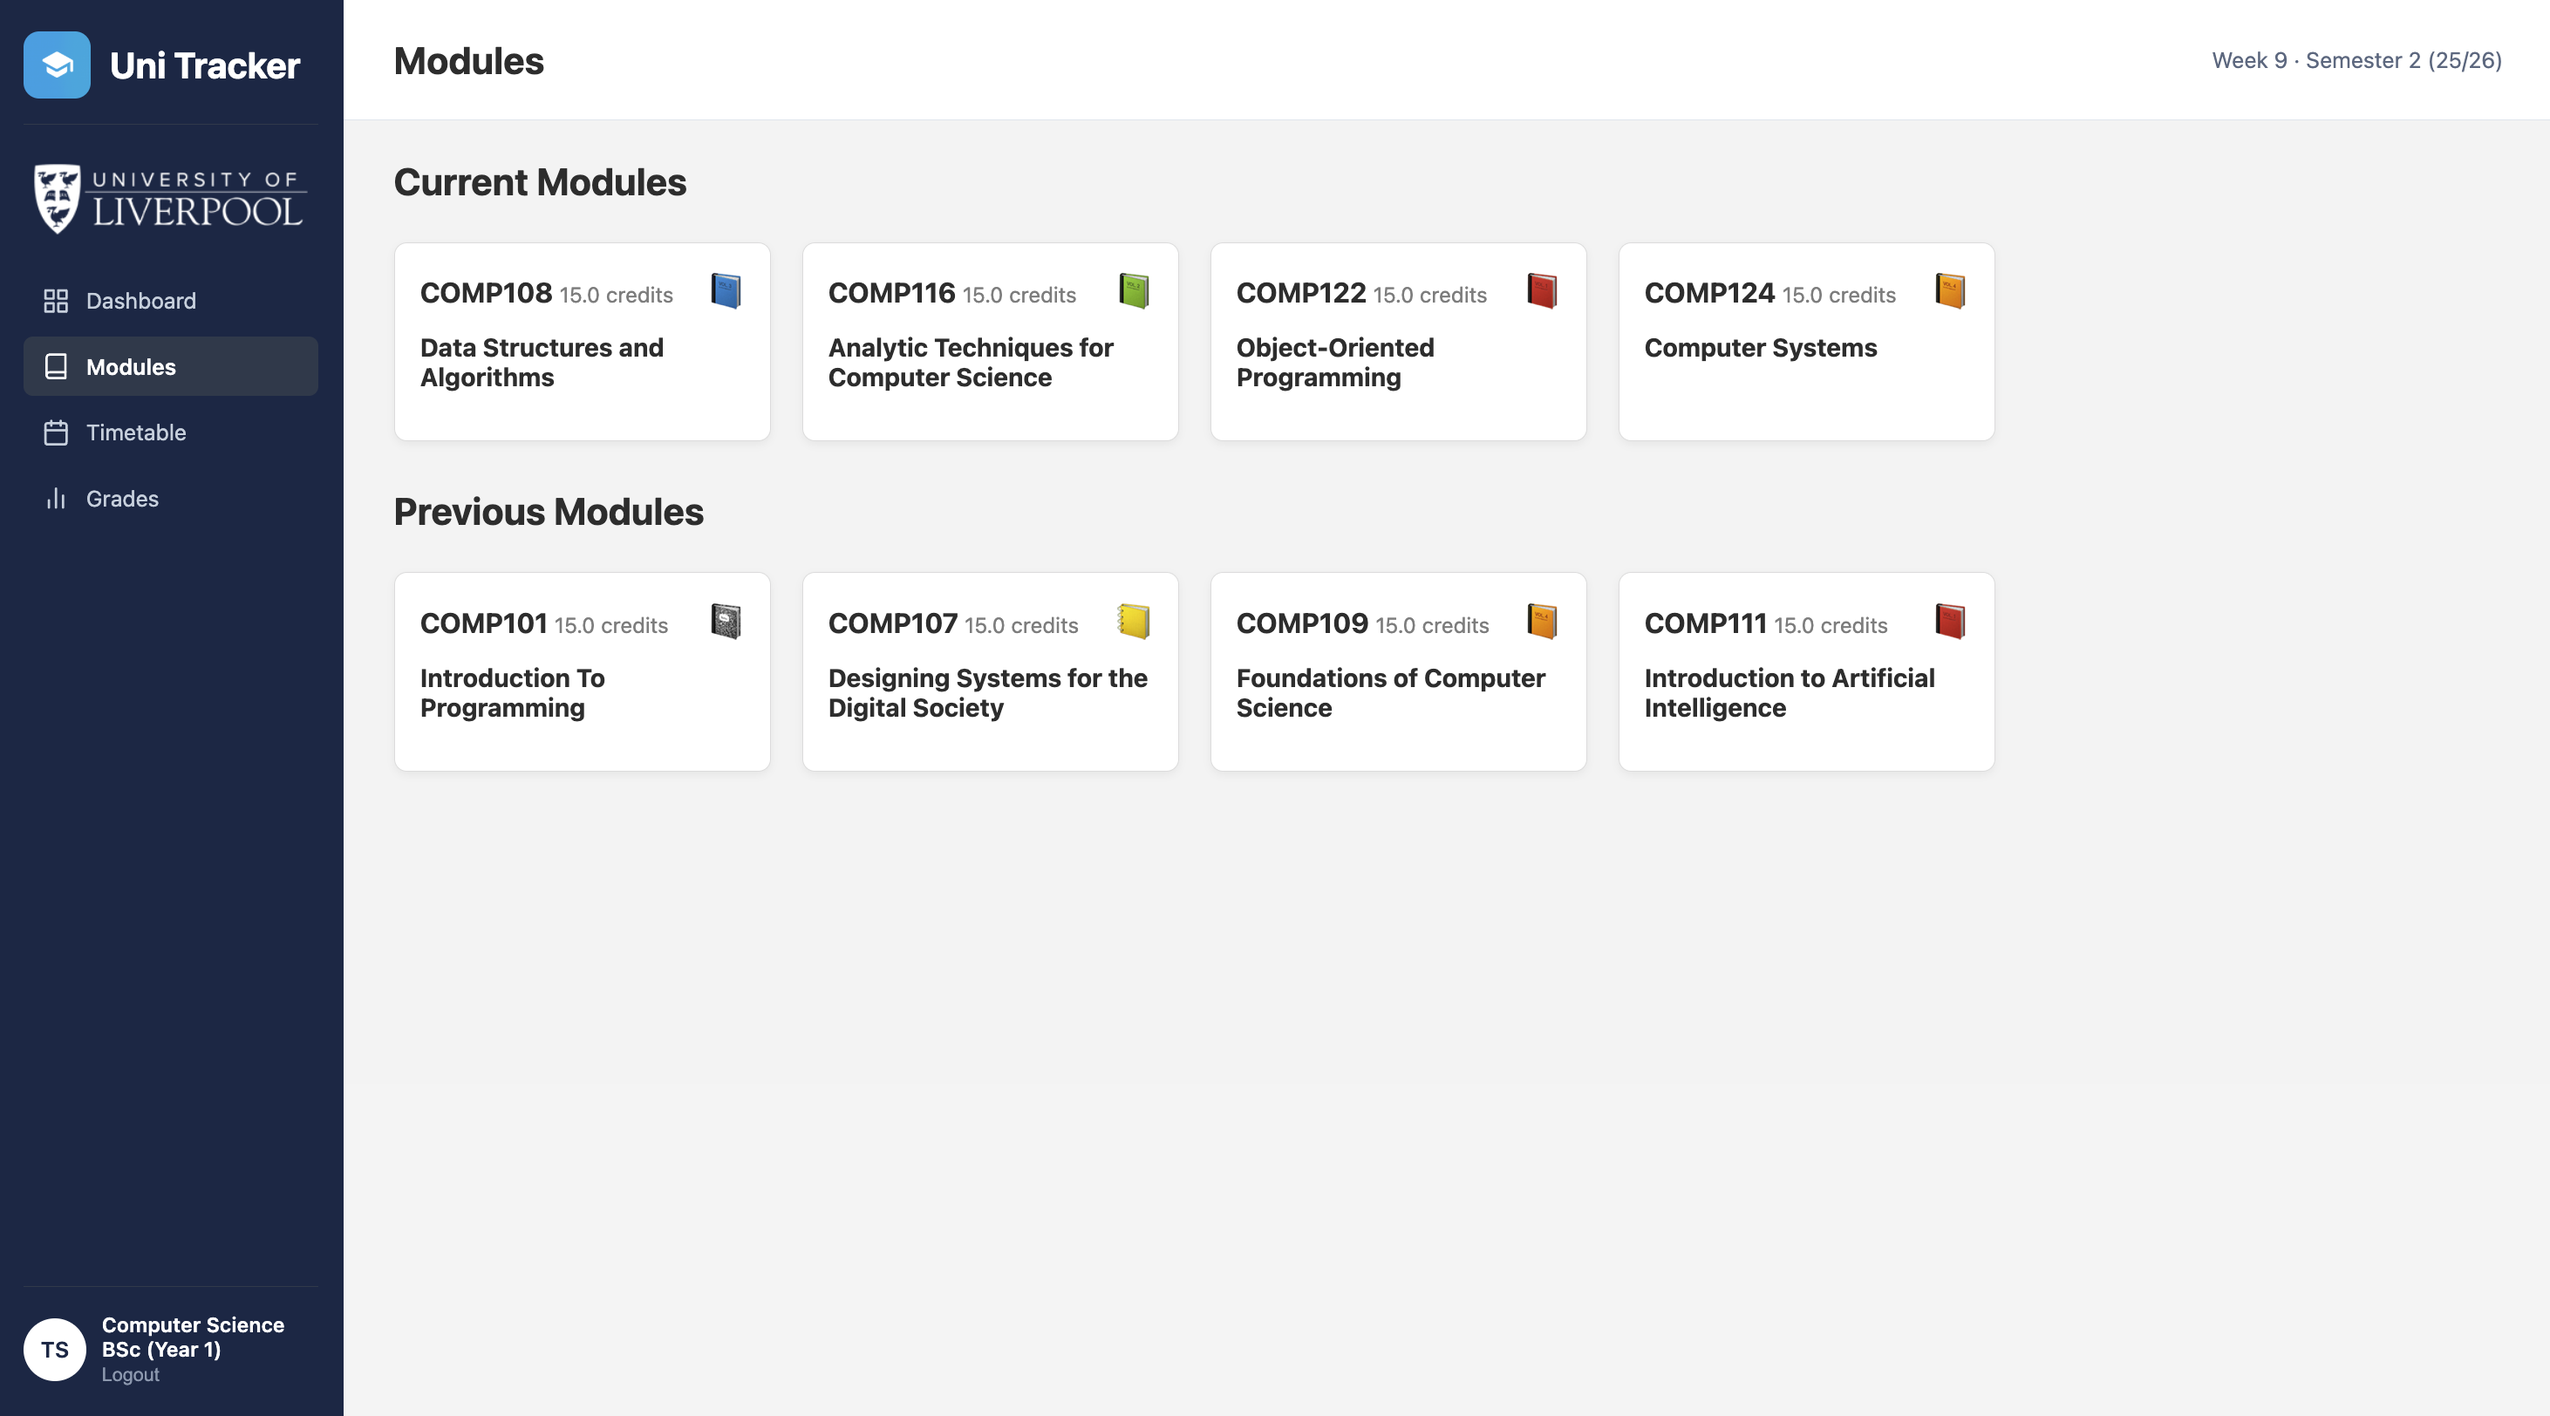
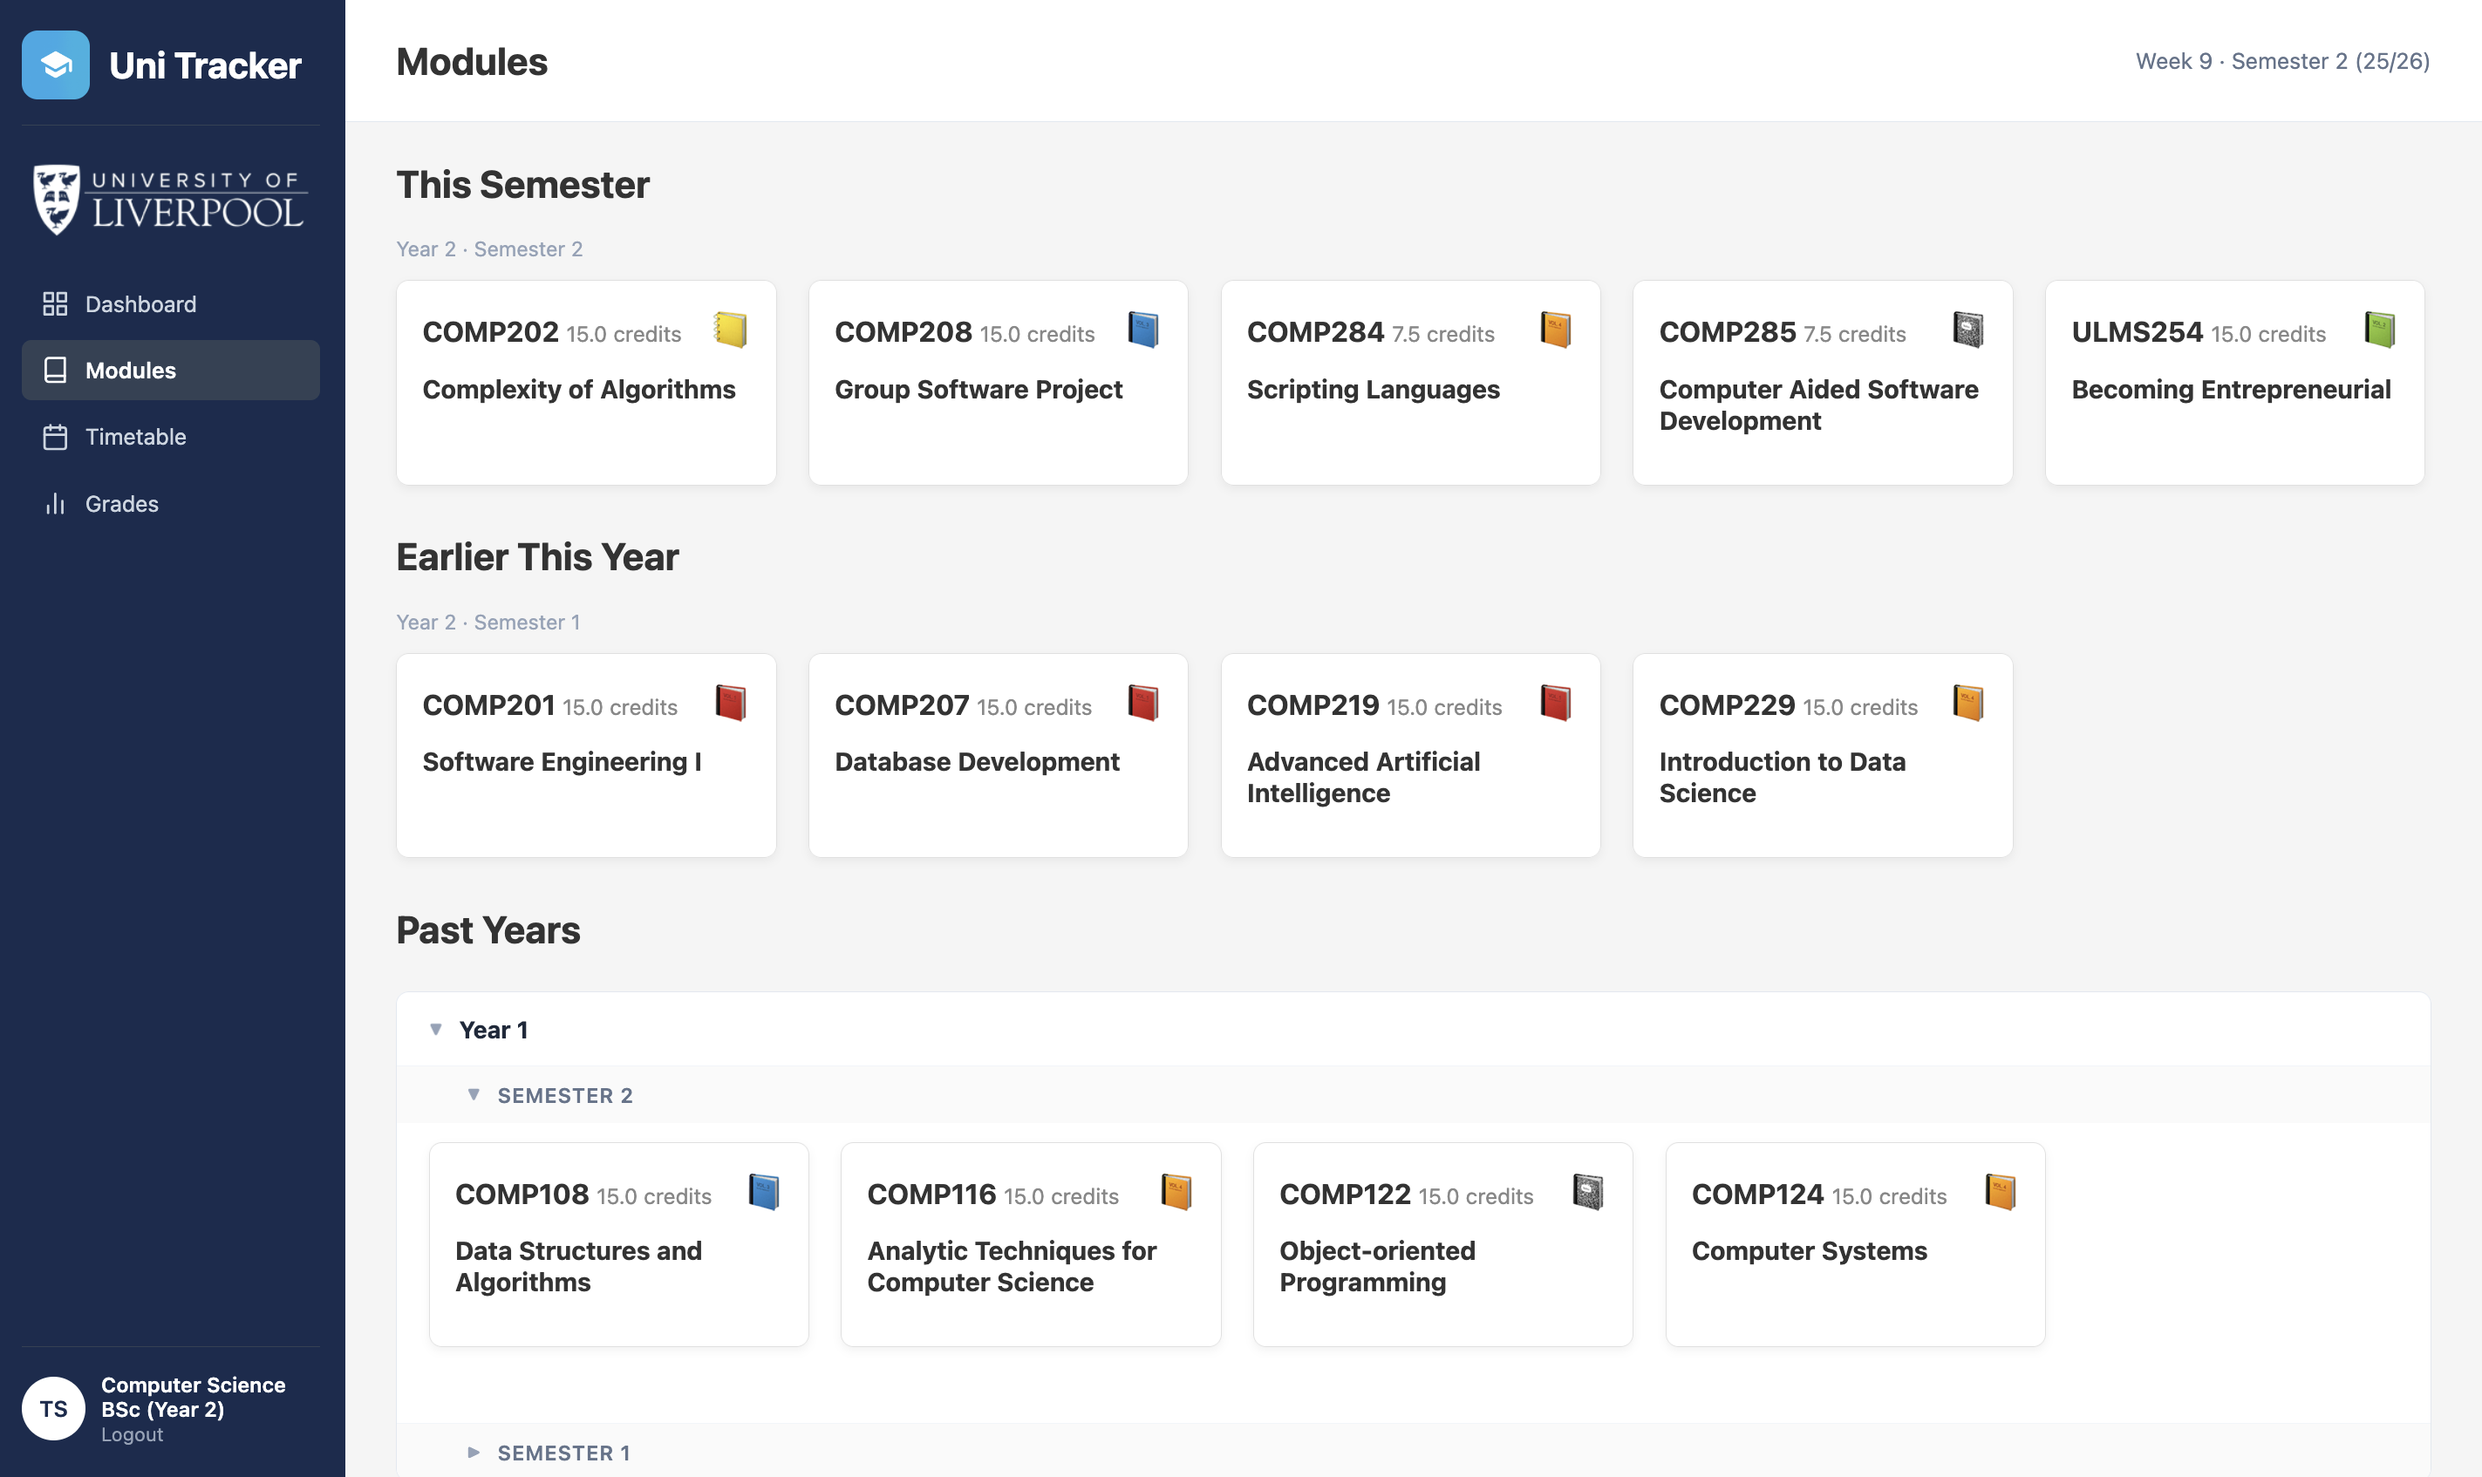
Update Screenshots And Switch Module Detail To COMP202

diff --git a/README.md b/README.md
@@ -24,7 +24,7 @@ The project was built by a six-person team for COMP208 Group Software Developmen
 
 ### Module Detail
 
-![Module Detail](docs/screenshots/modules_101.png)
+![Module Detail](docs/screenshots/modules_202.png)
 
 ### Timetable
 
